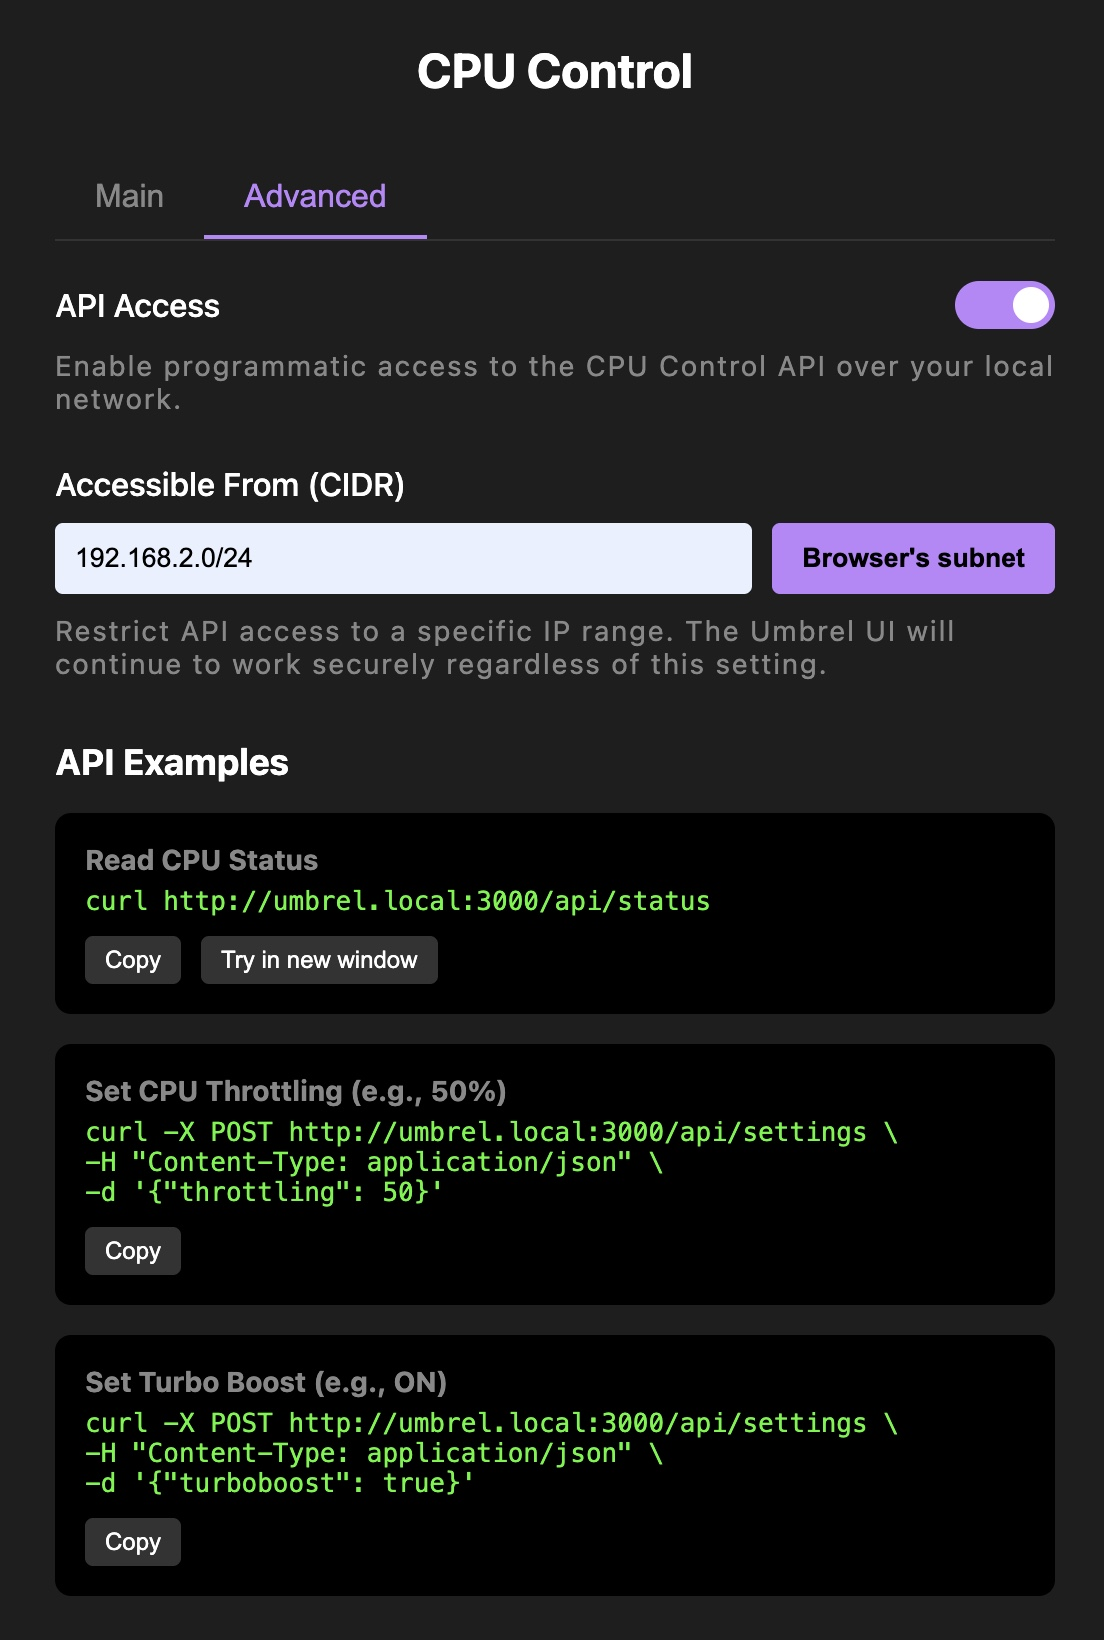
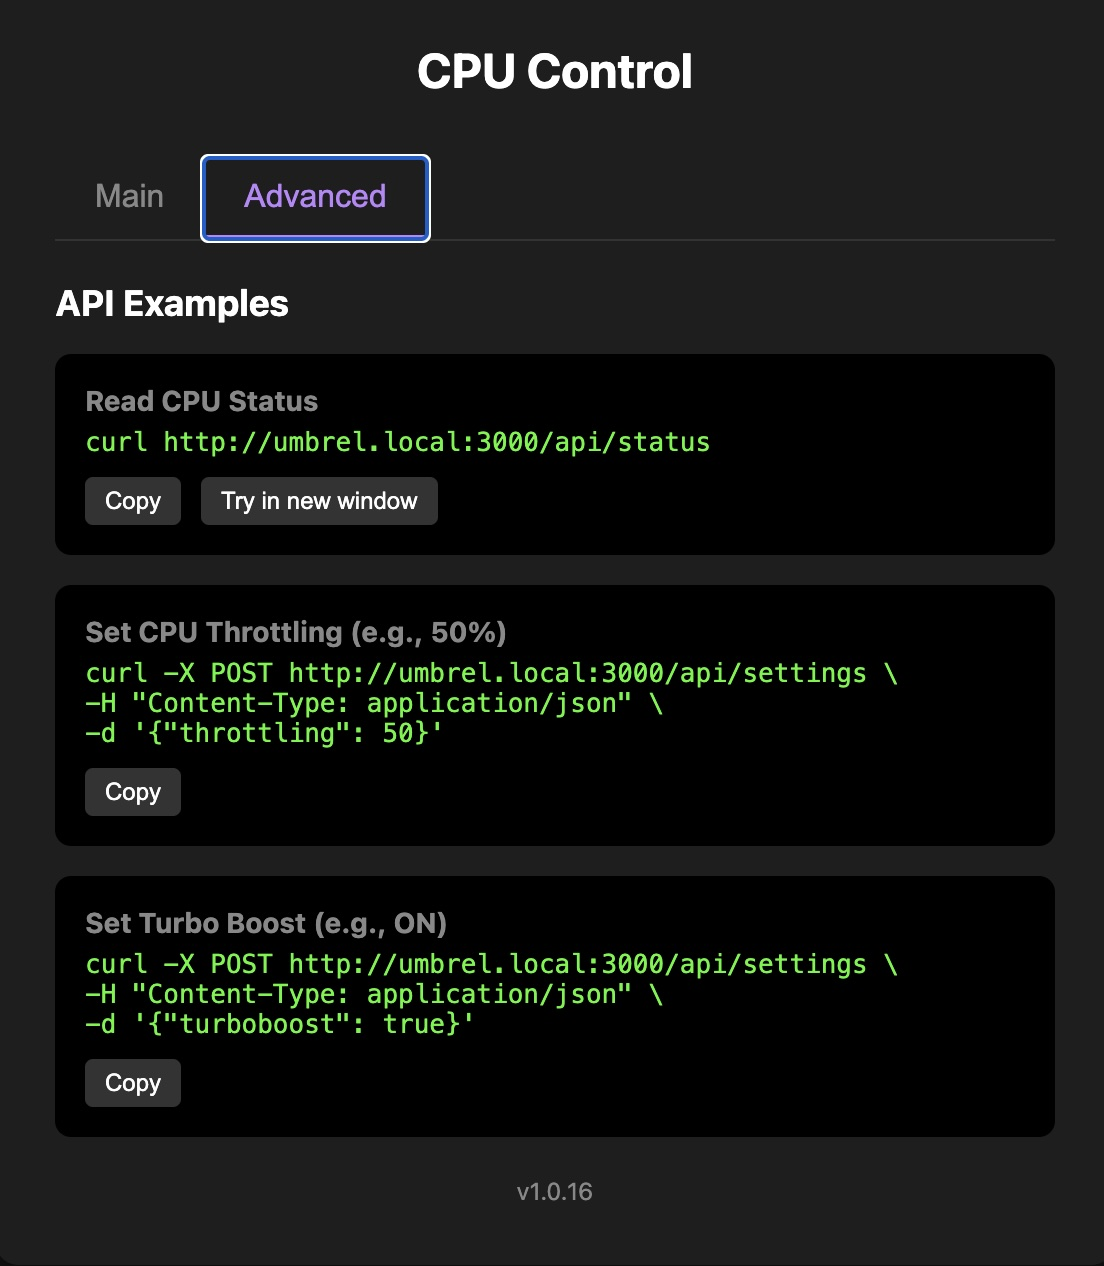
Release 1.0.17 - Removed IP filtering, added UI_TOKEN to bypass api switch, added bump and deploy scripts

diff --git a/bump.js b/bump.js
@@ -1,0 +1,51 @@
+const fs = require('fs');
+const path = require('path');
+
+const newVersion = process.argv[2];
+if (!newVersion) {
+    console.error("Please provide a new version. Usage: node bump.js <version>");
+    process.exit(1);
+}
+
+// Update jordan-cpucontrol/package.json
+const pkgPath = path.join(__dirname, 'jordan-cpucontrol', 'package.json');
+const pkg = JSON.parse(fs.readFileSync(pkgPath, 'utf8'));
+pkg.version = newVersion;
+fs.writeFileSync(pkgPath, JSON.stringify(pkg, null, 2) + '\n');
+console.log(`Updated package.json`);
+
+// Update jordan-cpucontrol/package-lock.json (if exists)
+const lockPath = path.join(__dirname, 'jordan-cpucontrol', 'package-lock.json');
+if (fs.existsSync(lockPath)) {
+    const lock = JSON.parse(fs.readFileSync(lockPath, 'utf8'));
+    lock.version = newVersion;
+    if (lock.packages && lock.packages['']) {
+        lock.packages[''].version = newVersion;
+    }
+    fs.writeFileSync(lockPath, JSON.stringify(lock, null, 2) + '\n');
+    console.log(`Updated package-lock.json`);
+}
+
+// Update jordan-cpucontrol/umbrel-app.yml
+const appYmlPath = path.join(__dirname, 'jordan-cpucontrol', 'umbrel-app.yml');
+let appYml = fs.readFileSync(appYmlPath, 'utf8');
+appYml = appYml.replace(/version:\s*".*"/, `version: "${newVersion}"`);
+fs.writeFileSync(appYmlPath, appYml);
+console.log(`Updated umbrel-app.yml`);
+
+// Update jordan-cpucontrol/docker-compose.yml
+const dcPath = path.join(__dirname, 'jordan-cpucontrol', 'docker-compose.yml');
+let dc = fs.readFileSync(dcPath, 'utf8');
+dc = dc.replace(/cpucontrol:[0-9]+\.[0-9]+\.[0-9]+/g, `cpucontrol:${newVersion}`);
+fs.writeFileSync(dcPath, dc);
+console.log(`Updated docker-compose.yml`);
+
+// Update DEPLOY.md
+const deployPath = path.join(__dirname, 'DEPLOY.md');
+let deploy = fs.readFileSync(deployPath, 'utf8');
+deploy = deploy.replace(/cpucontrol:[0-9]+\.[0-9]+\.[0-9]+/g, `cpucontrol:${newVersion}`);
+deploy = deploy.replace(/version tag `[0-9]+\.[0-9]+\.[0-9]+`/g, `version tag \`${newVersion}\``);
+fs.writeFileSync(deployPath, deploy);
+console.log(`Updated DEPLOY.md`);
+
+console.log(`\nSuccessfully bumped all version references to ${newVersion}`);

diff --git a/jordan-cpucontrol/public/index.html b/jordan-cpucontrol/public/index.html
@@ -274,6 +274,19 @@
     </div> <!-- end tab-main -->
 
     <div id="tab-advanced" class="tab-content">
+        <div class="control-group">
+            <div class="control-header">
+                <span class="control-label">API Access</span>
+                <label class="switch">
+                    <input type="checkbox" id="apiToggle">
+                    <span class="slider"></span>
+                </label>
+            </div>
+            <div class="temp-label" style="text-transform: none; margin-top: 10px; color: var(--text-muted);">
+                Enable programmatic access to the CPU Control API over your local network.
+            </div>
+        </div>
+
         <h2 style="font-size: 18px; margin-top: 0;">API Examples</h2>
         
         <div class="example-block">
@@ -306,6 +319,8 @@
 </div>
 
 <script>
+    const UI_TOKEN = '__UI_TOKEN__';
+
     const tempDisplay = document.getElementById('tempDisplay');
     const loadDisplay = document.getElementById('loadDisplay');
     const btnC = document.getElementById('btnC');
@@ -315,11 +330,14 @@
     const turboWarning = document.getElementById('turboWarning');
     const throttleSlider = document.getElementById('throttleSlider');
     const throttleValue = document.getElementById('throttleValue');
+    
+    const apiToggle = document.getElementById('apiToggle');
     const app = document.getElementById('app');
 
     let currentSettings = {
         turboboost: true,
         throttling: 100,
+        apiEnabled: false,
         tempUnit: 'C'
     };
 
@@ -366,7 +384,7 @@
     }
 
     function tryGet() {
-        window.open(`${apiBaseUrl}/api/status`, '_blank');
+        window.open(`${apiBaseUrl}/api/status?uiToken=${encodeURIComponent(UI_TOKEN)}`, '_blank');
     }
 
     function setUnit(unit) {
@@ -410,7 +428,9 @@
     }
 
     async function fetchStatusData() {
-        const res = await fetch('/api/status');
+        const res = await fetch('/api/status', {
+            headers: { 'X-UI-Token': UI_TOKEN }
+        });
         const data = await res.json();
         if (!res.ok) throw new Error(data.error || `Status request failed: ${res.status}`);
         if (data.error) throw new Error(data.error);
@@ -448,12 +468,18 @@
                     throttleSlider.value = data.throttling;
                     throttleValue.innerText = data.throttling + '%';
                 }
+                
+                if (document.activeElement !== apiToggle) {
+                    apiToggle.checked = data.apiEnabled;
+                }
+
                 btnC.classList.toggle('active', data.tempUnit !== 'F');
                 btnF.classList.toggle('active', data.tempUnit === 'F');
 
                 currentSettings = {
                     turboboost: data.turboboost,
                     throttling: data.throttling,
+                    apiEnabled: data.apiEnabled,
                     tempUnit: data.tempUnit || 'C'
                 };
             }
@@ -468,7 +494,8 @@
             const res = await fetch('/api/settings', {
                 method: 'POST',
                 headers: { 
-                    'Content-Type': 'application/json'
+                    'Content-Type': 'application/json',
+                    'X-UI-Token': UI_TOKEN
                 },
                 body: JSON.stringify(settings)
             });
@@ -503,6 +530,14 @@
         saveSettings({
             ...currentSettings,
             throttling: parseInt(e.target.value, 10)
+        }).finally(() => isUpdating = false).catch(() => {});
+    });
+
+    apiToggle.addEventListener('change', (e) => {
+        isUpdating = true;
+        saveSettings({
+            ...currentSettings,
+            apiEnabled: e.target.checked
         }).finally(() => isUpdating = false).catch(() => {});
     });
 

diff --git a/jordan-cpucontrol/server.js b/jordan-cpucontrol/server.js
@@ -1,6 +1,7 @@
 const express = require('express');
 const fs = require('fs').promises;
 const path = require('path');
+const crypto = require('crypto');
 const cpu = require('./cpu');
 const pkg = require('./package.json');
 
@@ -10,9 +11,13 @@ app.use(express.json());
 const DATA_DIR = process.env.DATA_DIR || path.join(__dirname, 'data');
 const STATE_FILE = path.join(DATA_DIR, 'state.json');
 
+// Generate a random token on startup. The UI served from '/' will be given this token to bypass API checks.
+const UI_TOKEN = crypto.randomBytes(16).toString('hex');
+
 let globalState = {
     throttling: 100,
     turboboost: true,
+    apiEnabled: false,
     tempUnit: 'C'
 };
 
@@ -35,6 +40,7 @@ async function startup() {
         
         if (state.throttling !== undefined) globalState.throttling = state.throttling;
         if (state.turboboost !== undefined) globalState.turboboost = state.turboboost;
+        if (state.apiEnabled !== undefined) globalState.apiEnabled = state.apiEnabled;
         if (state.tempUnit !== undefined) globalState.tempUnit = state.tempUnit;
         
         await cpu.setThrottling(globalState.throttling);
@@ -69,10 +75,11 @@ async function saveState() {
     }
 }
 
-// Serve UI
+// Serve UI with injected token
 app.get('/', async (req, res) => {
     try {
-        const html = await fs.readFile(path.join(__dirname, 'public', 'index.html'), 'utf8');
+        let html = await fs.readFile(path.join(__dirname, 'public', 'index.html'), 'utf8');
+        html = html.replace('__UI_TOKEN__', UI_TOKEN);
         res.send(html);
     } catch (err) {
         res.status(500).send('Error loading UI');
@@ -81,6 +88,23 @@ app.get('/', async (req, res) => {
 
 // Serve static assets (if any)
 app.use(express.static(path.join(__dirname, 'public'), { index: false }));
+
+// API Access Control Middleware
+app.use('/api', (req, res, next) => {
+    const queryUiToken = typeof req.query.uiToken === 'string' ? req.query.uiToken : '';
+
+    // If request comes from the UI (has the token), allow it unconditionally
+    if (req.headers['x-ui-token'] === UI_TOKEN || queryUiToken === UI_TOKEN) {
+        return next();
+    }
+
+    // Otherwise, check if API is enabled
+    if (!globalState.apiEnabled) {
+        return res.status(403).json({ error: 'API access is disabled. Enable it in the UI.' });
+    }
+
+    next();
+});
 
 // API Endpoints
 app.get('/api/status', async (req, res) => {
@@ -94,6 +118,7 @@ app.get('/api/status', async (req, res) => {
             turboSupported: state.turboSupported,
             throttling: globalState.throttling,
             turboboost: globalState.turboboost,
+            apiEnabled: globalState.apiEnabled,
             tempUnit: globalState.tempUnit
         });
     } catch (err) {
@@ -102,7 +127,7 @@ app.get('/api/status', async (req, res) => {
 });
 
 app.post('/api/settings', async (req, res) => {
-    const { throttling, turboboost, tempUnit } = req.body;
+    const { throttling, turboboost, apiEnabled, tempUnit } = req.body;
     
     try {
         if (throttling !== undefined) {
@@ -112,6 +137,9 @@ app.post('/api/settings', async (req, res) => {
         if (turboboost !== undefined) {
             globalState.turboboost = !!turboboost;
             await cpu.setTurboBoost(globalState.turboboost);
+        }
+        if (apiEnabled !== undefined) {
+            globalState.apiEnabled = !!apiEnabled;
         }
         if (tempUnit !== undefined) {
             globalState.tempUnit = tempUnit;

diff --git a/DEPLOY.md b/DEPLOY.md
@@ -2,9 +2,9 @@
 
 **Note:** This file is intended for developers maintaining the Umbrel CPU Control app. It is not intended for end users.
 
-## Deploying to Docker Hub
+## Automated Deployment (Recommended)
 
-To build and publish a new version of the Umbrel CPU Control app to Docker Hub, follow these steps:
+To simplify releasing new versions, an automated deployment script is provided at the root of the repository (`deploy.sh`). This script uses the included `bump.js` tool to unify the version bump across all files and then builds and pushes the Docker image automatically.
 
 1. **Ensure Docker Desktop is running** and you are logged into Docker Hub:
    ```bash
@@ -16,18 +16,28 @@ To build and publish a new version of the Umbrel CPU Control app to Docker Hub, 
    docker buildx create --use
    ```
 
-3. **Build and push the image**:
-   Run the following command from the repository root:
+3. **Run the deployment script** with your target version:
    ```bash
-   cd jordan-cpucontrol
-   docker buildx build --platform linux/amd64 -t jordanst/cpucontrol:1.0.16 -t jordanst/cpucontrol:latest --push .
+   ./deploy.sh 1.0.18
    ```
-   *(Update the version tag `1.0.16` as necessary when releasing new versions.)*
+   *This single command will:*
+   * *Update `package.json` and `package-lock.json`.*
+   * *Update `umbrel-app.yml` (App Store manifest).*
+   * *Update `docker-compose.yml` image tags.*
+   * *Update all version references in `DEPLOY.md`.*
+   * *Build and push the multi-architecture image to Docker Hub under `jordanst/cpucontrol:1.0.17` and `jordanst/cpucontrol:latest`.*
 
-4. **Update `docker-compose.yml`**:
-   Make sure `jordan-cpucontrol/docker-compose.yml` uses the correct updated image tag (e.g., `image: jordanst/cpucontrol:1.0.16`).
+4. **Commit and push** your changes to the community app store repository:
+   ```bash
+   git add .
+   git commit -m "Release 1.0.18"
+   git push
+   ```
 
-5. **Update App Metadata**:
-   Ensure `jordan-cpucontrol/umbrel-app.yml` has the correct updated `version`.
+## Manual Version Bumping
 
-6. **Commit and push** your changes to the community app store repository.
+If you only want to bump the versions across all configuration files without deploying to Docker Hub, you can run the bump script directly:
+
+```bash
+node bump.js 1.0.18
+```

diff --git a/README.md b/README.md
@@ -20,9 +20,14 @@ Returns the current state of the CPU.
 **Response:**
 ```json
 {
+  "version": "1.0.17",
   "temperature": 100,
+  "load": 25.4,
+  "turboSupported": true,
+  "throttling": 100,
   "turboboost": true,
-  "throttling": 100
+  "apiEnabled": true,
+  "tempUnit": "C"
 }
 ```
 
@@ -32,7 +37,8 @@ Updates the CPU parameters and saves the state.
 ```json
 {
   "turboboost": false,
-  "throttling": 20
+  "throttling": 20,
+  "apiEnabled": true
 }
 ```
 